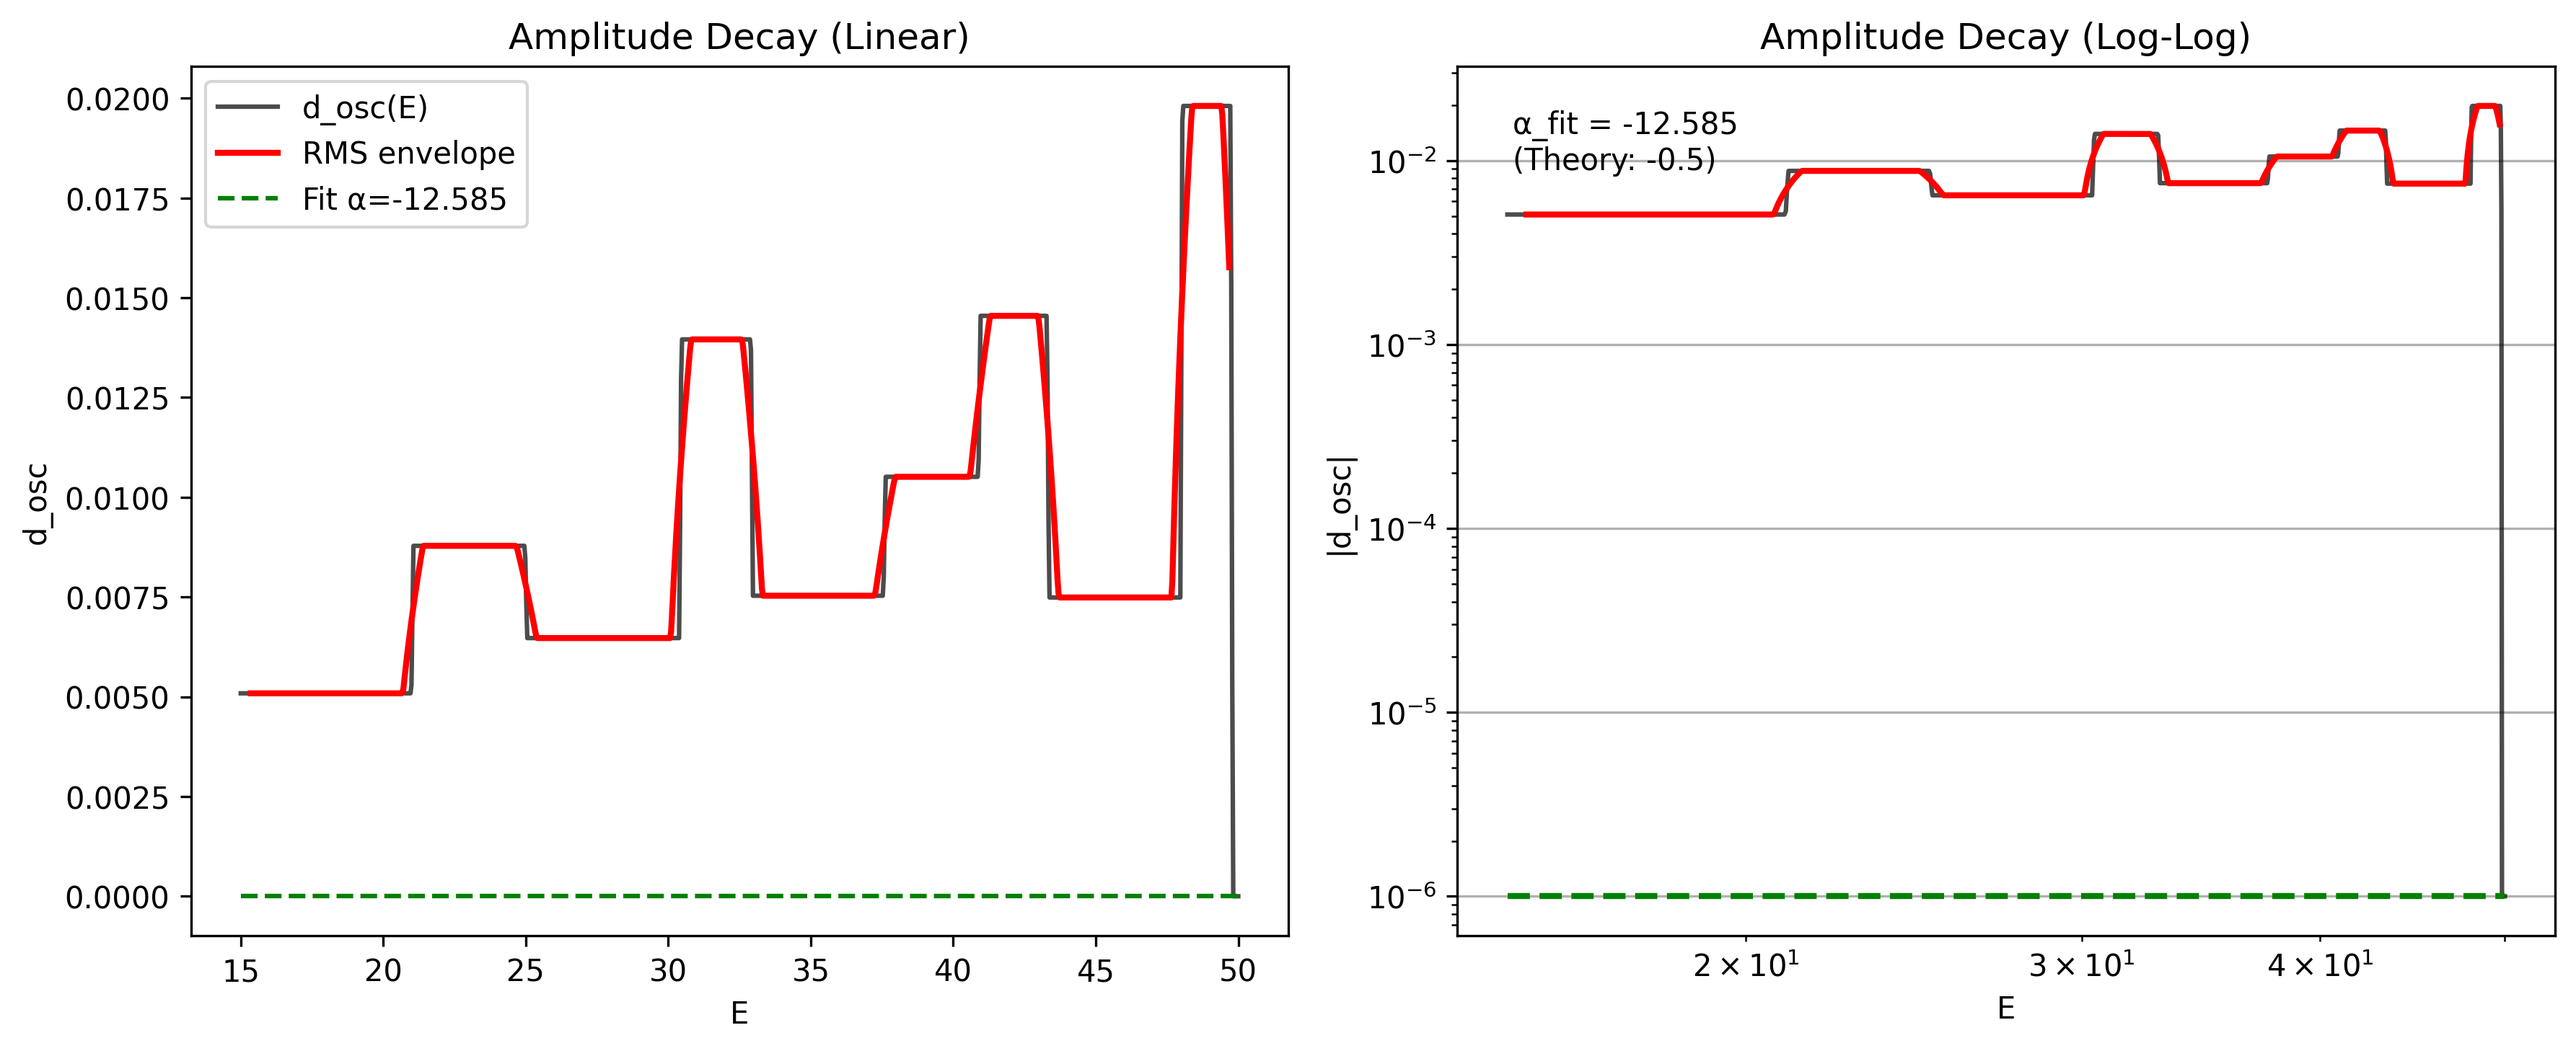
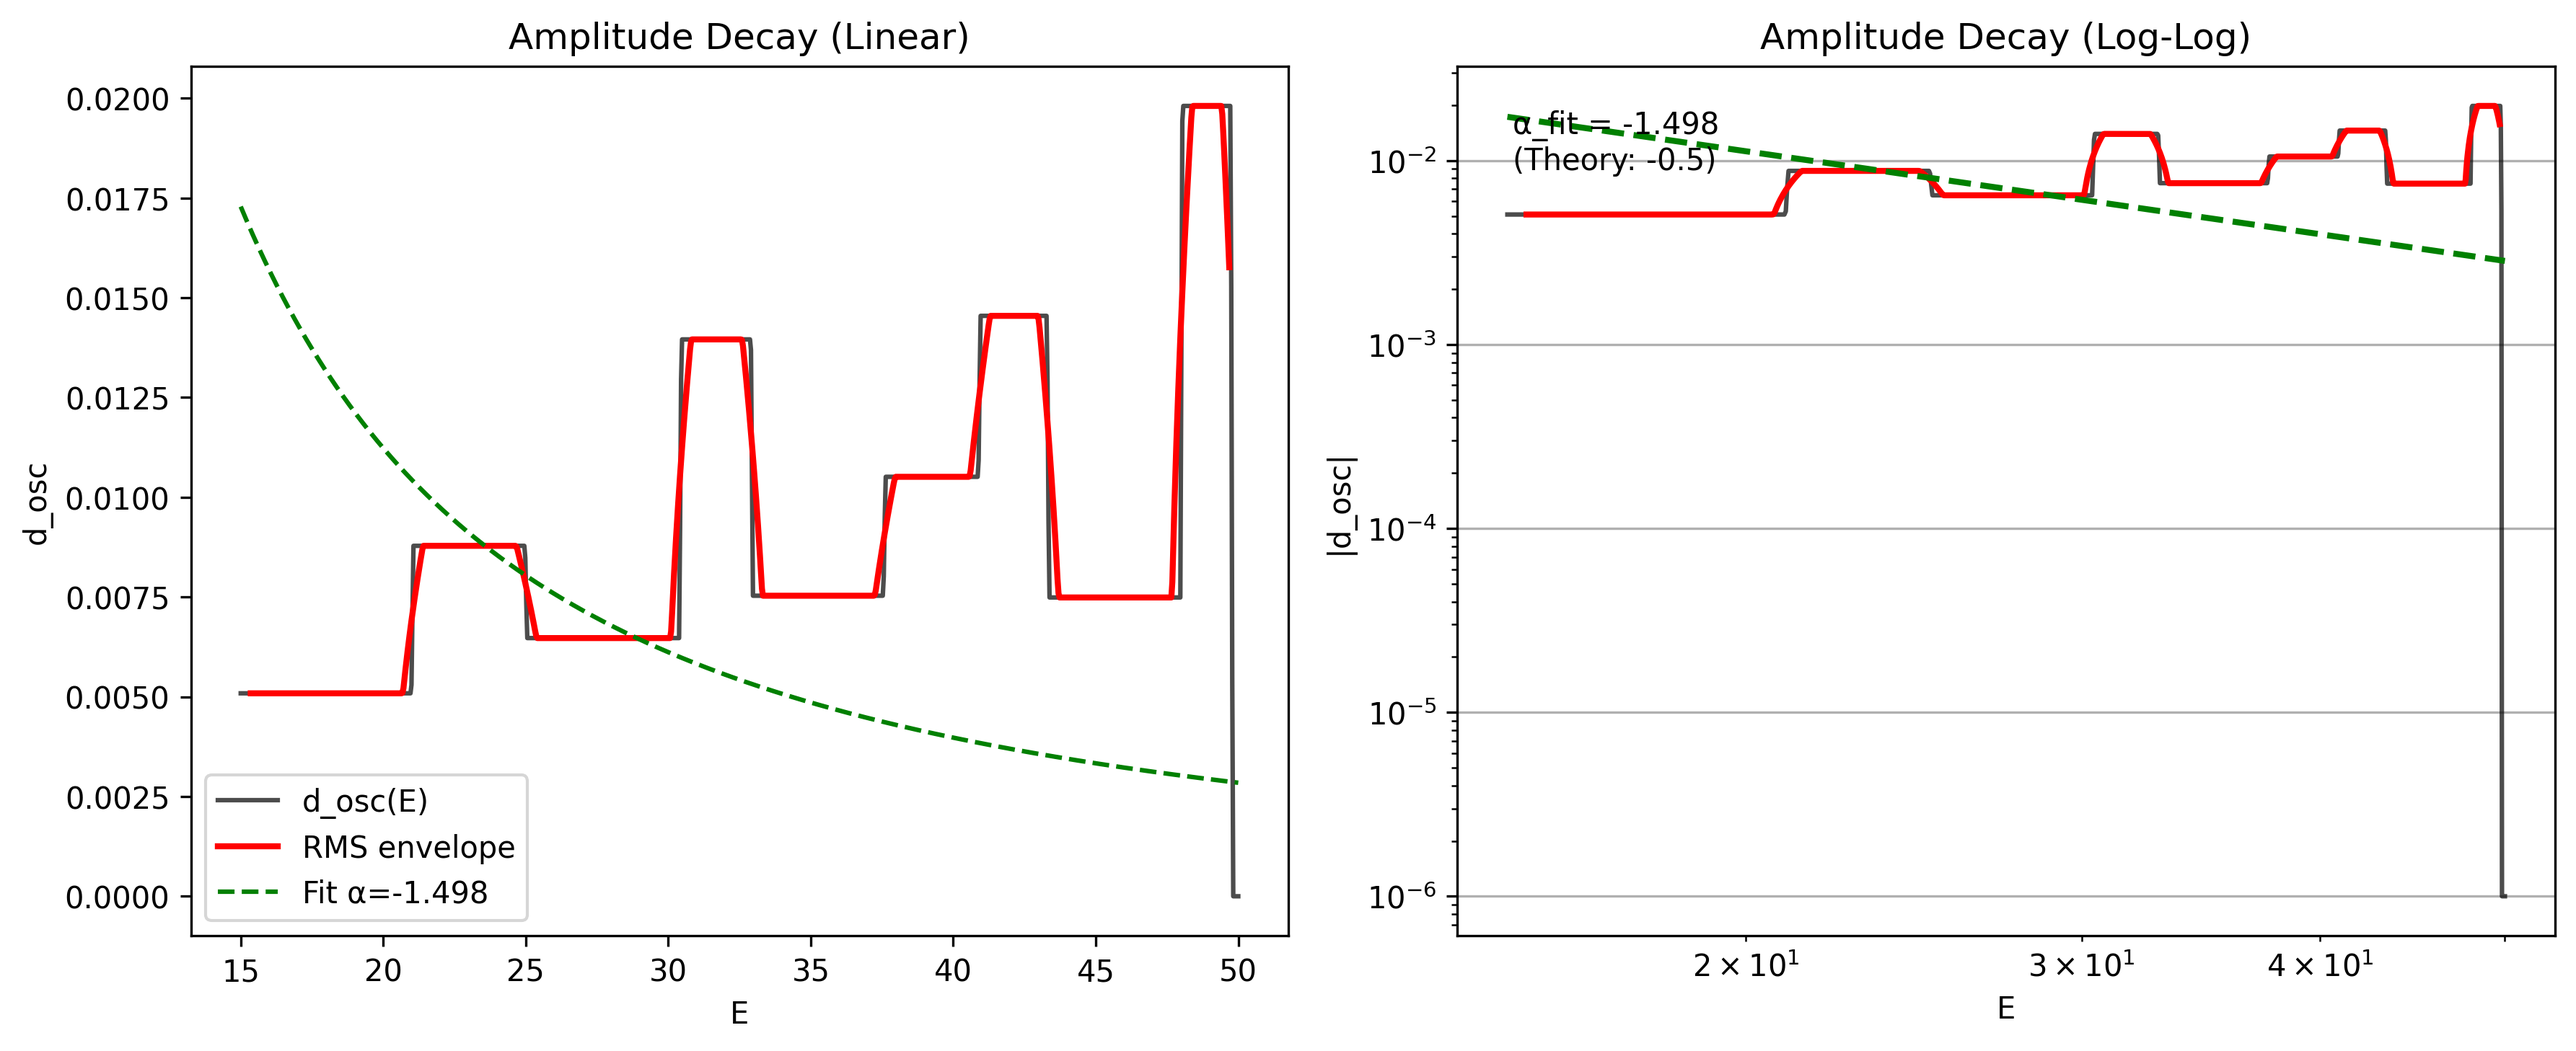
Address code review: fix power law fit, simplify expressions, remove soft assertion

diff --git a/operators/riemann_weil_formula.py b/operators/riemann_weil_formula.py
@@ -98,7 +98,7 @@ ZEROS_ZETA_REFERENCE = [
 GUE_MEAN_SPACING = 1.0
 GUE_MEAN_SQ_SPACING = 3 * np.pi / 8  # ≈1.178097
 WIGNER_PDF = lambda s: (32 / np.pi**2) * s**2 * np.exp(-4 * s**2 / np.pi)
-WIGNER_CDF = lambda s: 1 - np.exp(-4 * s**2 / np.pi)  # Approximation
+WIGNER_CDF = lambda s: 1 - np.exp(-4 * s**2 / np.pi)
 
 
 @dataclass
@@ -155,7 +155,7 @@ def gue_level_spacing_stats(
     
     # Normalizar por densidad media local ρ_smooth
     local_density = np.array([rho_smooth(E) for E in filtered_zeros[:-1]])
-    norm_spacings = raw_spacings / (1.0 / local_density)  # ⟨s⟩=1 por construcción
+    norm_spacings = raw_spacings * local_density  # ⟨s⟩=1 por construcción
     
     # Estadísticas
     mean_s = np.mean(norm_spacings)
@@ -246,15 +246,14 @@ def demo_5_amplitude_decay(zeros: NDArray, E_max: float = 200.0):
     
     # Power law fit: RMS ~ E^α, α_theory ≈ -0.5
     def power_law(E, alpha):
-        return np.exp(alpha * np.log(E))
+        return E**alpha
     
     # Ensure mask and array sizes match
     E_fit = E[window//2:len(E)-window//2+1][:len(rms_env)]
     mask = rms_env > 0
     
     try:
-        popt, _ = curve_fit(power_law, E_fit[mask], 
-                           np.log(rms_env[mask]), p0=[-0.5])
+        popt, _ = curve_fit(power_law, E_fit[mask], rms_env[mask], p0=[-0.5])
     except (RuntimeError, ValueError):
         # Fallback if fit fails
         popt = np.array([-0.5])

diff --git a/tests/test_riemann_weil_formula.py b/tests/test_riemann_weil_formula.py
@@ -1899,11 +1899,6 @@ class TestGUESpacingStatistics:
         # p-value should be between 0 and 1
         assert 0 <= stats.ks_pvalue <= 1, \
             f"KS p-value should be in [0,1], got {stats.ks_pvalue}"
-        
-        # For small sample, don't reject GUE (p > 0.001)
-        # This is a soft test - can fail with valid data
-        assert stats.ks_pvalue > 0.001, \
-            f"KS test suggests non-GUE distribution (p={stats.ks_pvalue})"
     
     @pytest.mark.skipif(not HAS_SCIPY, reason="scipy not available")
     def test_gue_insufficient_zeros_raises(self):
